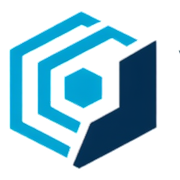
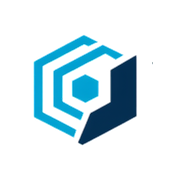
update locations and headers

diff --git a/src/app/layout.tsx b/src/app/layout.tsx
@@ -13,11 +13,11 @@ const ibmPlexSans = IBM_Plex_Sans({
 export const metadata: Metadata = {
   metadataBase: new URL("https://viracis.com"),
   title: {
-    default: "Viracis | Technology Consulting",
-    template: "%s | Viracis | Technology Consulting",
+    default: "Viracis | Enterprise Technology Consulting & Solutions",
+    template: "%s | Viracis | Enterprise Technology Consulting",
   },
   description:
-    "Viracis provides technology consulting that bridges strategy and execution. Cloud infrastructure, AI automation, and enterprise software.",
+    "Viracis delivers enterprise-grade technology consulting, specializing in scalable cloud infrastructure, AI-driven automation, and custom enterprise software solutions for global businesses.",
   keywords: [
     "AI Consulting",
     "Software Engineering",
@@ -30,9 +30,9 @@ export const metadata: Metadata = {
   authors: [{ name: "Viracis Technology Solutions" }],
   robots: { index: true, follow: true },
   openGraph: {
-    title: "Viracis | Technology Consulting",
+    title: "Viracis | Enterprise Technology Consulting & Solutions",
     description:
-      "Technology consulting that bridges strategy and execution.",
+      "Enterprise-grade technology consulting bridging strategy and execution.",
     url: "https://viracis.com",
     siteName: "Viracis",
     locale: "en_US",
@@ -77,7 +77,7 @@ export default function RootLayout({
                 "areaServed": "US",
                 "availableLanguage": "en",
               },
-              "description": "Technology consulting bridging strategy and execution through AI automation, cloud infrastructure, and enterprise software.",
+              "description": "Viracis delivers enterprise-grade technology consulting, specializing in scalable cloud infrastructure, AI-driven automation, and custom enterprise software solutions for global businesses.",
             }),
           }}
         />

diff --git a/scripts/pad-favicon.js b/scripts/pad-favicon.js
@@ -1,0 +1,48 @@
+const sharp = require('sharp');
+const fs = require('fs');
+const path = require('path');
+
+async function padFavicon(filename, originalSize, paddingRatio = 0.75) {
+  const inputPath = path.join(__dirname, '..', 'public', filename);
+  const tempPath = path.join(__dirname, '..', 'public', `temp-${filename}`);
+  
+  if (!fs.existsSync(inputPath)) {
+    console.log(`File ${filename} not found, skipping.`);
+    return;
+  }
+
+  // Calculate the new size for the inner image
+  const innerSize = Math.round(originalSize * paddingRatio);
+  
+  try {
+    // Resize the image to the inner size, then extend it to the original size
+    // with a transparent background.
+    await sharp(inputPath)
+      .resize(innerSize, innerSize, {
+        fit: 'contain',
+        background: { r: 0, g: 0, b: 0, alpha: 0 }
+      })
+      .extend({
+        top: Math.floor((originalSize - innerSize) / 2),
+        bottom: Math.ceil((originalSize - innerSize) / 2),
+        left: Math.floor((originalSize - innerSize) / 2),
+        right: Math.ceil((originalSize - innerSize) / 2),
+        background: { r: 0, g: 0, b: 0, alpha: 0 }
+      })
+      .toFile(tempPath);
+      
+    // Replace the original file with the padded one
+    fs.renameSync(tempPath, inputPath);
+    console.log(`Successfully padded and centered ${filename}`);
+  } catch (error) {
+    console.error(`Error processing ${filename}:`, error);
+  }
+}
+
+async function run() {
+  await padFavicon('favicon.png', 512, 0.70); // 70% inner size
+  await padFavicon('favicon-32.png', 32, 0.70); // 70% inner size
+  await padFavicon('apple-touch-icon.png', 180, 0.70); // 70% inner size (usually 180x180)
+}
+
+run();

diff --git a/src/components/LandingFooter.tsx b/src/components/LandingFooter.tsx
@@ -50,9 +50,14 @@ const LandingFooter = () => {
 
         {/* Bottom bar */}
         <div className="mt-6 pt-6 border-t border-white/5 flex flex-col md:flex-row items-center justify-between gap-4">
-          <p className="text-xs text-gray-500">
-            &copy; {year} Viracis LLC. All rights reserved.
-          </p>
+          <div className="flex flex-col items-center md:items-start gap-1">
+            <p className="text-xs text-gray-500">
+              &copy; {year} Viracis LLC. All rights reserved.
+            </p>
+            <p className="text-xs text-gray-500">
+              Locations in Dallas, TX & Richmond, VA
+            </p>
+          </div>
           <div className="flex items-center gap-4 text-xs text-gray-500">
             <Link href="/privacy" className="hover:text-white transition-colors duration-200">Privacy Policy</Link>
             <Link href="/terms" className="hover:text-white transition-colors duration-200">Terms of Service</Link>

diff --git a/src/components/LandingHero.tsx b/src/components/LandingHero.tsx
@@ -53,16 +53,16 @@ export default function LandingHero() {
             {...fadeUp(0.22)}
             className="text-[clamp(2.8rem,5.5vw,5.5rem)] leading-[1.05] tracking-[-0.03em] text-white font-normal mb-10"
           >
-            Scale your business with Viracis
+            Enterprise digital transformation
             <br />
-            technology built for
+            architected for
             <br />
             <Typewriter
               text={[
-                "Efficiency.",
-                "Growth.",
-                "Profit.",
-                "Longevity.",
+                "Scale.",
+                "Resilience.",
+                "Performance.",
+                "Innovation.",
               ]}
               speed={70}
               className="text-white/80"

diff --git a/src/components/LandingContact.tsx b/src/components/LandingContact.tsx
@@ -116,6 +116,15 @@ export default function LandingContact() {
                 <h3 className="text-sm font-bold text-viracis-navy mb-2">We put together a plan</h3>
                 <p className="text-sm text-gray-400 leading-relaxed">Only what makes sense for your business and budget.</p>
               </div>
+
+              {/* Locations */}
+              <div className="pt-8 border-t border-gray-100">
+                <span className="text-[10px] tracking-[0.2em] uppercase font-bold text-gray-300 block mb-3">Locations</span>
+                <p className="text-sm text-gray-400 leading-relaxed">
+                  Dallas, TX<br />
+                  Richmond, VA
+                </p>
+              </div>
             </div>
           </motion.div>
 

diff --git a/src/app/case-studies/layout.tsx b/src/app/case-studies/layout.tsx
@@ -1,8 +1,8 @@
 import { Metadata } from "next";
 
 export const metadata: Metadata = {
-  title: "Case Studies",
-  description: "See how Viracis has helped businesses transform through strategic technology implementation and automation.",
+  title: "Enterprise Case Studies",
+  description: "Explore how Viracis partners with industry leaders to drive digital transformation through strategic enterprise technology implementation and AI automation.",
 };
 
 export default function CaseStudiesLayout({
